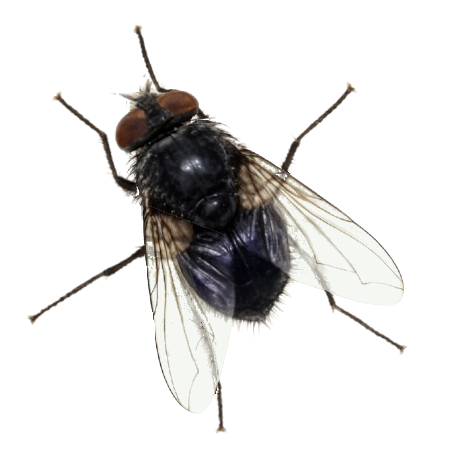
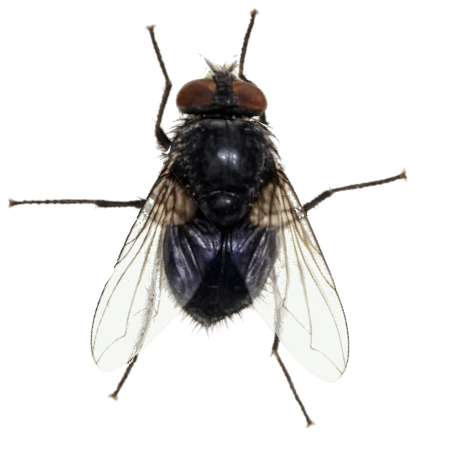
Mais precisão nos ângulos

diff --git a/Mosca2/frmMosca.cs b/Mosca2/frmMosca.cs
@@ -97,6 +97,7 @@ public partial class frmMosca : Form
 
     public async Task VoarPara(Point destino, int velocidade = 0, bool levarMouse = false)
     {
+        if (_dragging) return;
         _destinoVoar = destino;
         await VoarPara(velocidade, levarMouse);
     }
@@ -193,7 +194,7 @@ public partial class frmMosca : Form
 
     private void TimerRotacao_Tick(object? sender, EventArgs e)
     {
-        RotacionarImagemMosca();
+        RotacionarMoscaAleatorio();
         ProximoIntervaloRotacao();
     }
 
@@ -260,10 +261,8 @@ public partial class frmMosca : Form
                     Cursor.Position = new Point(this.Left + this.Width / 2 - 50, this.Top + this.Height / 2 - 10);
                 break;
             }
+            ApontarParaDestinoVoar();
             double ang = Math.Atan2(dy, dx);
-            int anguloMosca = (int)(ang * 180 / Math.PI) + 135;
-            var novoAngulo = ((anguloMosca % 360) + 360) % 360;
-            AplicarAngulo(novoAngulo);
             int nx = this.Left + (int)(velocidade * Math.Cos(ang));
             int ny = this.Top + (int)(velocidade * Math.Sin(ang));
             this.Left = nx;
@@ -276,6 +275,30 @@ public partial class frmMosca : Form
             _waveOut.Stop();
         _emVoo = false;
         ProximoIntervaloVoar();
+    }
+
+    private void ApontarParaDestinoVoar()
+    {
+        ApontarPara(_destinoVoar.X, _destinoVoar.Y);
+    }
+
+    public void ApontarPara(int posX, int posY)
+    {
+        var point = new Point(posX, posY);
+        ApontarPara(point);
+    }
+
+    public void ApontarPara(Point point)
+    {
+        int dx = point.X - this.Left;
+        int dy = point.Y - this.Top;
+        // ângulo em radianos, 0 é para a direita, positivo sentido anti-horário
+        double angRad = Math.Atan2(dy, dx);
+        // converte para graus
+        int angDeg = (int)(angRad * 180 / Math.PI);
+        // ajusta para que 0 seja para cima (em vez de direita)
+        int anguloMosca = (angDeg + 90 + 360) % 360;
+        AplicarAngulo(anguloMosca);
     }
 
     public void AplicarAngulo(int angulo)
@@ -319,15 +342,59 @@ public partial class frmMosca : Form
         }
     }
 
-    private void RotacionarImagemMosca()
+    private async Task RotacionarSuaveAte(int anguloDestino, int passo = 30, int delayMs = 30)
+    {
+        int atual = _anguloAtual;
+        anguloDestino = ((anguloDestino % 360) + 360) % 360;
+        atual = ((atual % 360) + 360) % 360;
+        if (atual == anguloDestino) return;
+
+        int diff = (anguloDestino - atual + 360) % 360;
+        int sentido = diff <= 180 ? 1 : -1; // 1: horário, -1: anti-horário
+        int passos = 0;
+        while (atual != anguloDestino && passos < 100)
+        {
+            int prox = (atual + sentido * passo + 360) % 360;
+            // Se passar do destino, ajusta para o destino
+            if ((sentido == 1 && ((prox > anguloDestino && atual < anguloDestino) || (atual > anguloDestino && prox < atual))) ||
+                (sentido == -1 && ((prox < anguloDestino && atual > anguloDestino) || (atual < anguloDestino && prox > atual))))
+            {
+                prox = anguloDestino;
+            }
+            AplicarAngulo(prox);
+            atual = prox;
+            await Task.Delay(delayMs);
+            passos++;
+        }
+    }
+
+    public async Task OlharParaRotacionarSuave(Direcao onde)
+    {
+        switch (onde)
+        {
+            case Direcao.Cima:
+                await RotacionarSuaveAte(0);
+                break;
+            case Direcao.Direita:
+                await RotacionarSuaveAte(90);
+                break;
+            case Direcao.Baixo:
+                await RotacionarSuaveAte(180);
+                break;
+            case Direcao.Esquerda:
+                await RotacionarSuaveAte(270);
+                break;
+        }
+    }
+
+    private async void RotacionarMoscaAleatorio()
     {
         if (picMosca?.Image == null) return;
-        int[] angles = { 30, 50, 90 };
-        int angle = angles[_random.Next(angles.Length)];
+        int angle = _random.Next(0, 360);
         bool esquerda = _random.Next(2) == 0;
         if (!esquerda) angle = 360 - angle;
         var novoAngulo = (_anguloAtual + angle) % 360;
-        AplicarAngulo(novoAngulo);
+        await RotacionarSuaveAte(novoAngulo);
     }
 
     private Image RotacionarImagem(float angle, Image? img = null)
@@ -501,13 +568,13 @@ public partial class frmMosca : Form
 
         var destino = new Point(x, centerY);
         await VoarPara(destino, 120);
-        await OlharPara(Direcao.Direita);
+        await OlharParaRotacionarSuave(Direcao.Direita);
         await Task.Delay(1000);
-        await OlharPara(Direcao.Baixo);
+        await OlharParaRotacionarSuave(Direcao.Baixo);
         await Task.Delay(1000);
-        await OlharPara(Direcao.Esquerda);
+        await OlharParaRotacionarSuave(Direcao.Esquerda);
         await Task.Delay(1000);
-        await OlharPara(Direcao.Cima);
+        await OlharParaRotacionarSuave(Direcao.Cima);
 
         AtivarTimers(true);
     }
@@ -518,30 +585,15 @@ public partial class frmMosca : Form
         for (int i = 0; i < 4; i++)
         {
             await VoarPara(BordaMaisProxima(Direcao.Cima), 50);
+            Application.DoEvents();
             await VoarPara(BordaMaisProxima(Direcao.Direita), 50);
+            Application.DoEvents();
             await VoarPara(BordaMaisProxima(Direcao.Baixo), 50);
+            Application.DoEvents();
             await VoarPara(BordaMaisProxima(Direcao.Esquerda), 50);
+            Application.DoEvents();
         }
         AtivarTimers(true);
-    }
-
-    public async Task OlharPara(Direcao onde)
-    {
-        switch (onde)
-        {
-            case Direcao.Cima:
-                AplicarAngulo(30);
-                break;
-            case Direcao.Direita:
-                AplicarAngulo(120);
-                break;
-            case Direcao.Baixo:
-                AplicarAngulo(210);
-                break;
-            case Direcao.Esquerda:
-                AplicarAngulo(300);
-                break;
-        }
     }
 
     public void AtivarTimers(bool ativar)
@@ -599,7 +651,7 @@ public partial class frmMosca : Form
             // Se não estiver em nenhuma tela, usa a principal
             screen = Screen.PrimaryScreen;
         }
-        var area = screen.WorkingArea;
+        var area = screen!.WorkingArea;
 
         if (direcao != null)
         {

diff --git a/Mosca2/GlobalMouseHook.cs b/Mosca2/GlobalMouseHook.cs
@@ -1,0 +1,82 @@
+using System;
+using System.Diagnostics;
+using System.Runtime.InteropServices;
+using System.Windows.Forms;
+
+namespace Mosca2
+{
+    public class GlobalMouseHook : IDisposable
+    {
+        private const int WH_MOUSE_LL = 14;
+        private const int WM_MOUSEMOVE = 0x0200;
+        private IntPtr _hookID = IntPtr.Zero;
+        private LowLevelMouseProc _proc;
+
+        public event EventHandler<Point>? MouseMoved;
+
+        public GlobalMouseHook()
+        {
+            _proc = HookCallback;
+            _hookID = SetHook(_proc);
+        }
+
+        private IntPtr SetHook(LowLevelMouseProc proc)
+        {
+            using (Process curProcess = Process.GetCurrentProcess())
+            using (ProcessModule curModule = curProcess.MainModule!)
+            {
+                return SetWindowsHookEx(WH_MOUSE_LL, proc,
+                    GetModuleHandle(curModule.ModuleName), 0);
+            }
+        }
+
+        private IntPtr HookCallback(int nCode, IntPtr wParam, IntPtr lParam)
+        {
+            if (nCode >= 0 && wParam == (IntPtr)WM_MOUSEMOVE)
+            {
+                MSLLHOOKSTRUCT hookStruct = Marshal.PtrToStructure<MSLLHOOKSTRUCT>(lParam);
+                MouseMoved?.Invoke(this, new Point(hookStruct.pt.x, hookStruct.pt.y));
+            }
+            return CallNextHookEx(_hookID, nCode, wParam, lParam);
+        }
+
+        public void Dispose()
+        {
+            UnhookWindowsHookEx(_hookID);
+        }
+
+        private delegate IntPtr LowLevelMouseProc(int nCode, IntPtr wParam, IntPtr lParam);
+
+        [StructLayout(LayoutKind.Sequential)]
+        private struct POINT
+        {
+            public int x;
+            public int y;
+        }
+
+        [StructLayout(LayoutKind.Sequential)]
+        private struct MSLLHOOKSTRUCT
+        {
+            public POINT pt;
+            public uint mouseData;
+            public uint flags;
+            public uint time;
+            public IntPtr dwExtraInfo;
+        }
+
+        [DllImport("user32.dll", CharSet = CharSet.Auto, SetLastError = true)]
+        private static extern IntPtr SetWindowsHookEx(int idHook,
+            LowLevelMouseProc lpfn, IntPtr hMod, uint dwThreadId);
+
+        [DllImport("user32.dll", CharSet = CharSet.Auto, SetLastError = true)]
+        [return: MarshalAs(UnmanagedType.Bool)]
+        private static extern bool UnhookWindowsHookEx(IntPtr hhk);
+
+        [DllImport("user32.dll", CharSet = CharSet.Auto, SetLastError = true)]
+        private static extern IntPtr CallNextHookEx(IntPtr hhk, int nCode,
+            IntPtr wParam, IntPtr lParam);
+
+        [DllImport("kernel32.dll", CharSet = CharSet.Auto, SetLastError = true)]
+        private static extern IntPtr GetModuleHandle(string lpModuleName);
+    }
+}

diff --git a/Mosca2/frmPrincipal.Designer.cs b/Mosca2/frmPrincipal.Designer.cs
@@ -23,6 +23,11 @@
                 notifyIcon.Dispose();
                 notifyIcon = null;
             }
+            if (disposing && globalMouseHook != null)
+            {
+                globalMouseHook.Dispose();
+                globalMouseHook = null;
+            }
             base.Dispose(disposing);
         }
 
@@ -46,6 +51,8 @@
             hsbAngulo = new HScrollBar();
             lblAngulo = new Label();
             chkPermitirAgarrarSoltar = new CheckBox();
+            chkApontarParaMouse = new CheckBox();
+            lblPosicaoMouse = new Label();
             SuspendLayout();
             // 
             // chkTimerMoverPernas
@@ -167,11 +174,33 @@
             chkPermitirAgarrarSoltar.UseVisualStyleBackColor = true;
             chkPermitirAgarrarSoltar.CheckedChanged += chkTimers_CheckedChanged;
             // 
+            // chkApontarParaMouse
+            // 
+            chkApontarParaMouse.AutoSize = true;
+            chkApontarParaMouse.Location = new Point(12, 162);
+            chkApontarParaMouse.Name = "chkApontarParaMouse";
+            chkApontarParaMouse.Size = new Size(144, 19);
+            chkApontarParaMouse.TabIndex = 11;
+            chkApontarParaMouse.Text = "Apontar para o mouse";
+            chkApontarParaMouse.UseVisualStyleBackColor = true;
+            chkApontarParaMouse.CheckedChanged += chkTimers_CheckedChanged;
+            // 
+            // lblPosicaoMouse
+            // 
+            lblPosicaoMouse.AutoSize = true;
+            lblPosicaoMouse.Location = new Point(132, 112);
+            lblPosicaoMouse.Name = "lblPosicaoMouse";
+            lblPosicaoMouse.Size = new Size(110, 15);
+            lblPosicaoMouse.TabIndex = 12;
+            lblPosicaoMouse.Text = "Posição do mouse: ";
+            // 
             // frmPrincipal
             // 
             AutoScaleDimensions = new SizeF(7F, 15F);
             AutoScaleMode = AutoScaleMode.Font;
-            ClientSize = new Size(386, 170);
+            ClientSize = new Size(386, 206);
+            Controls.Add(lblPosicaoMouse);
+            Controls.Add(chkApontarParaMouse);
             Controls.Add(chkPermitirAgarrarSoltar);
             Controls.Add(lblAngulo);
             Controls.Add(hsbAngulo);
@@ -205,5 +234,7 @@
         private HScrollBar hsbAngulo;
         private Label lblAngulo;
         private CheckBox chkPermitirAgarrarSoltar;
+        private CheckBox chkApontarParaMouse;
+        private Label lblPosicaoMouse;
     }
 }
